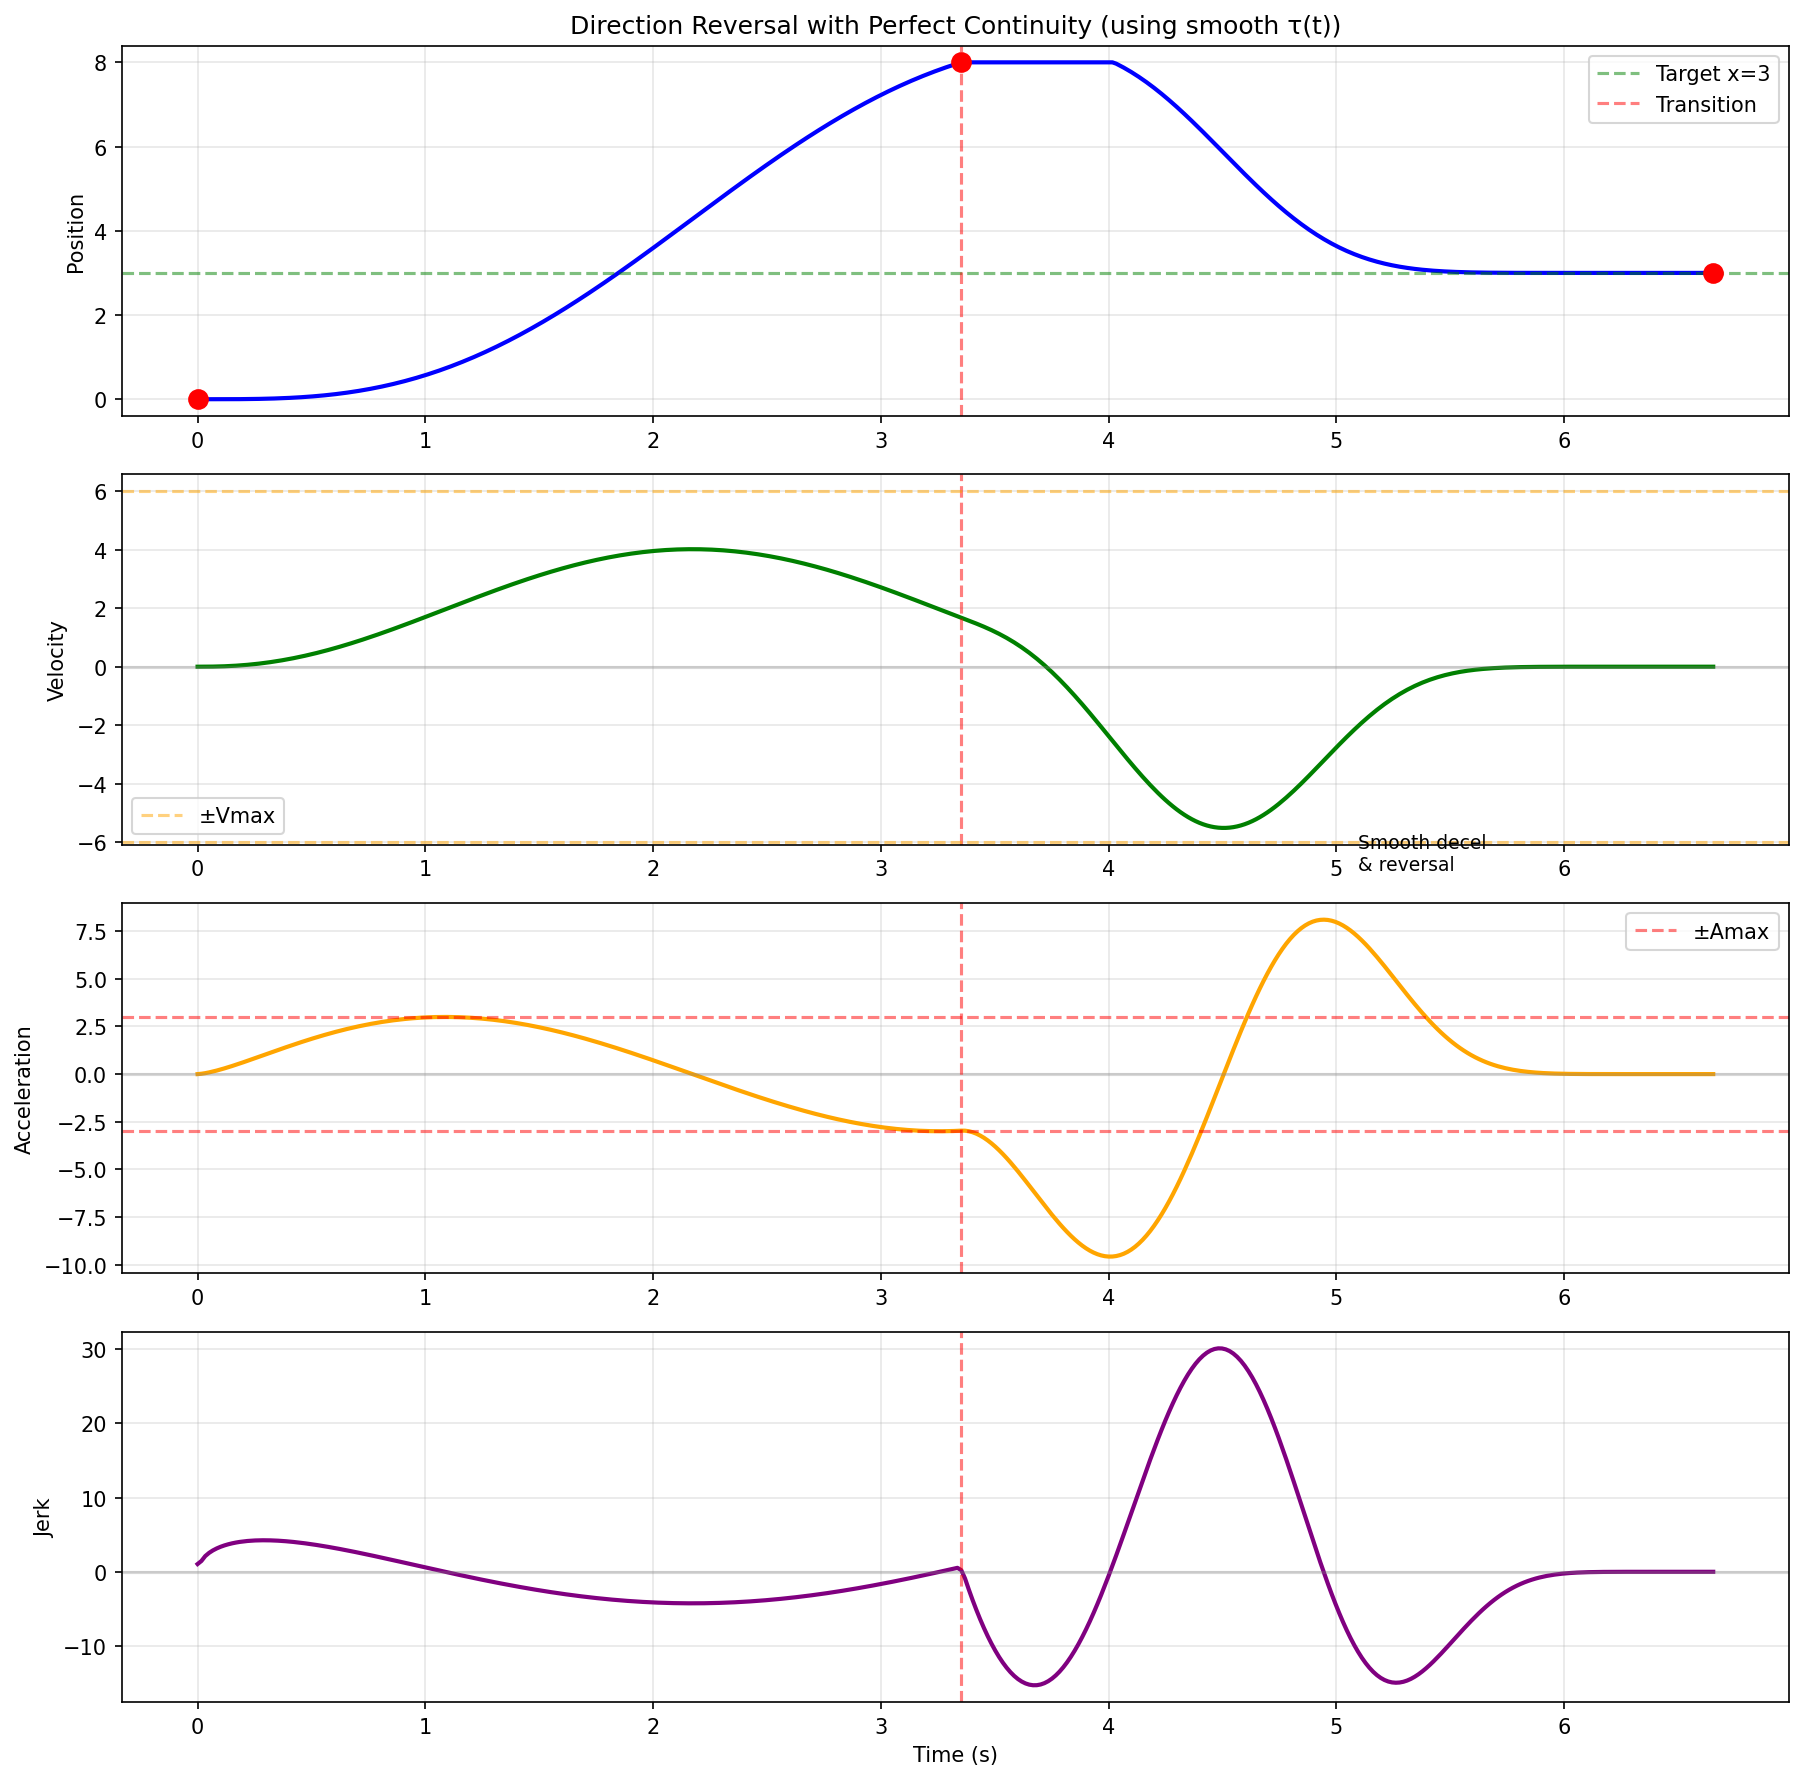
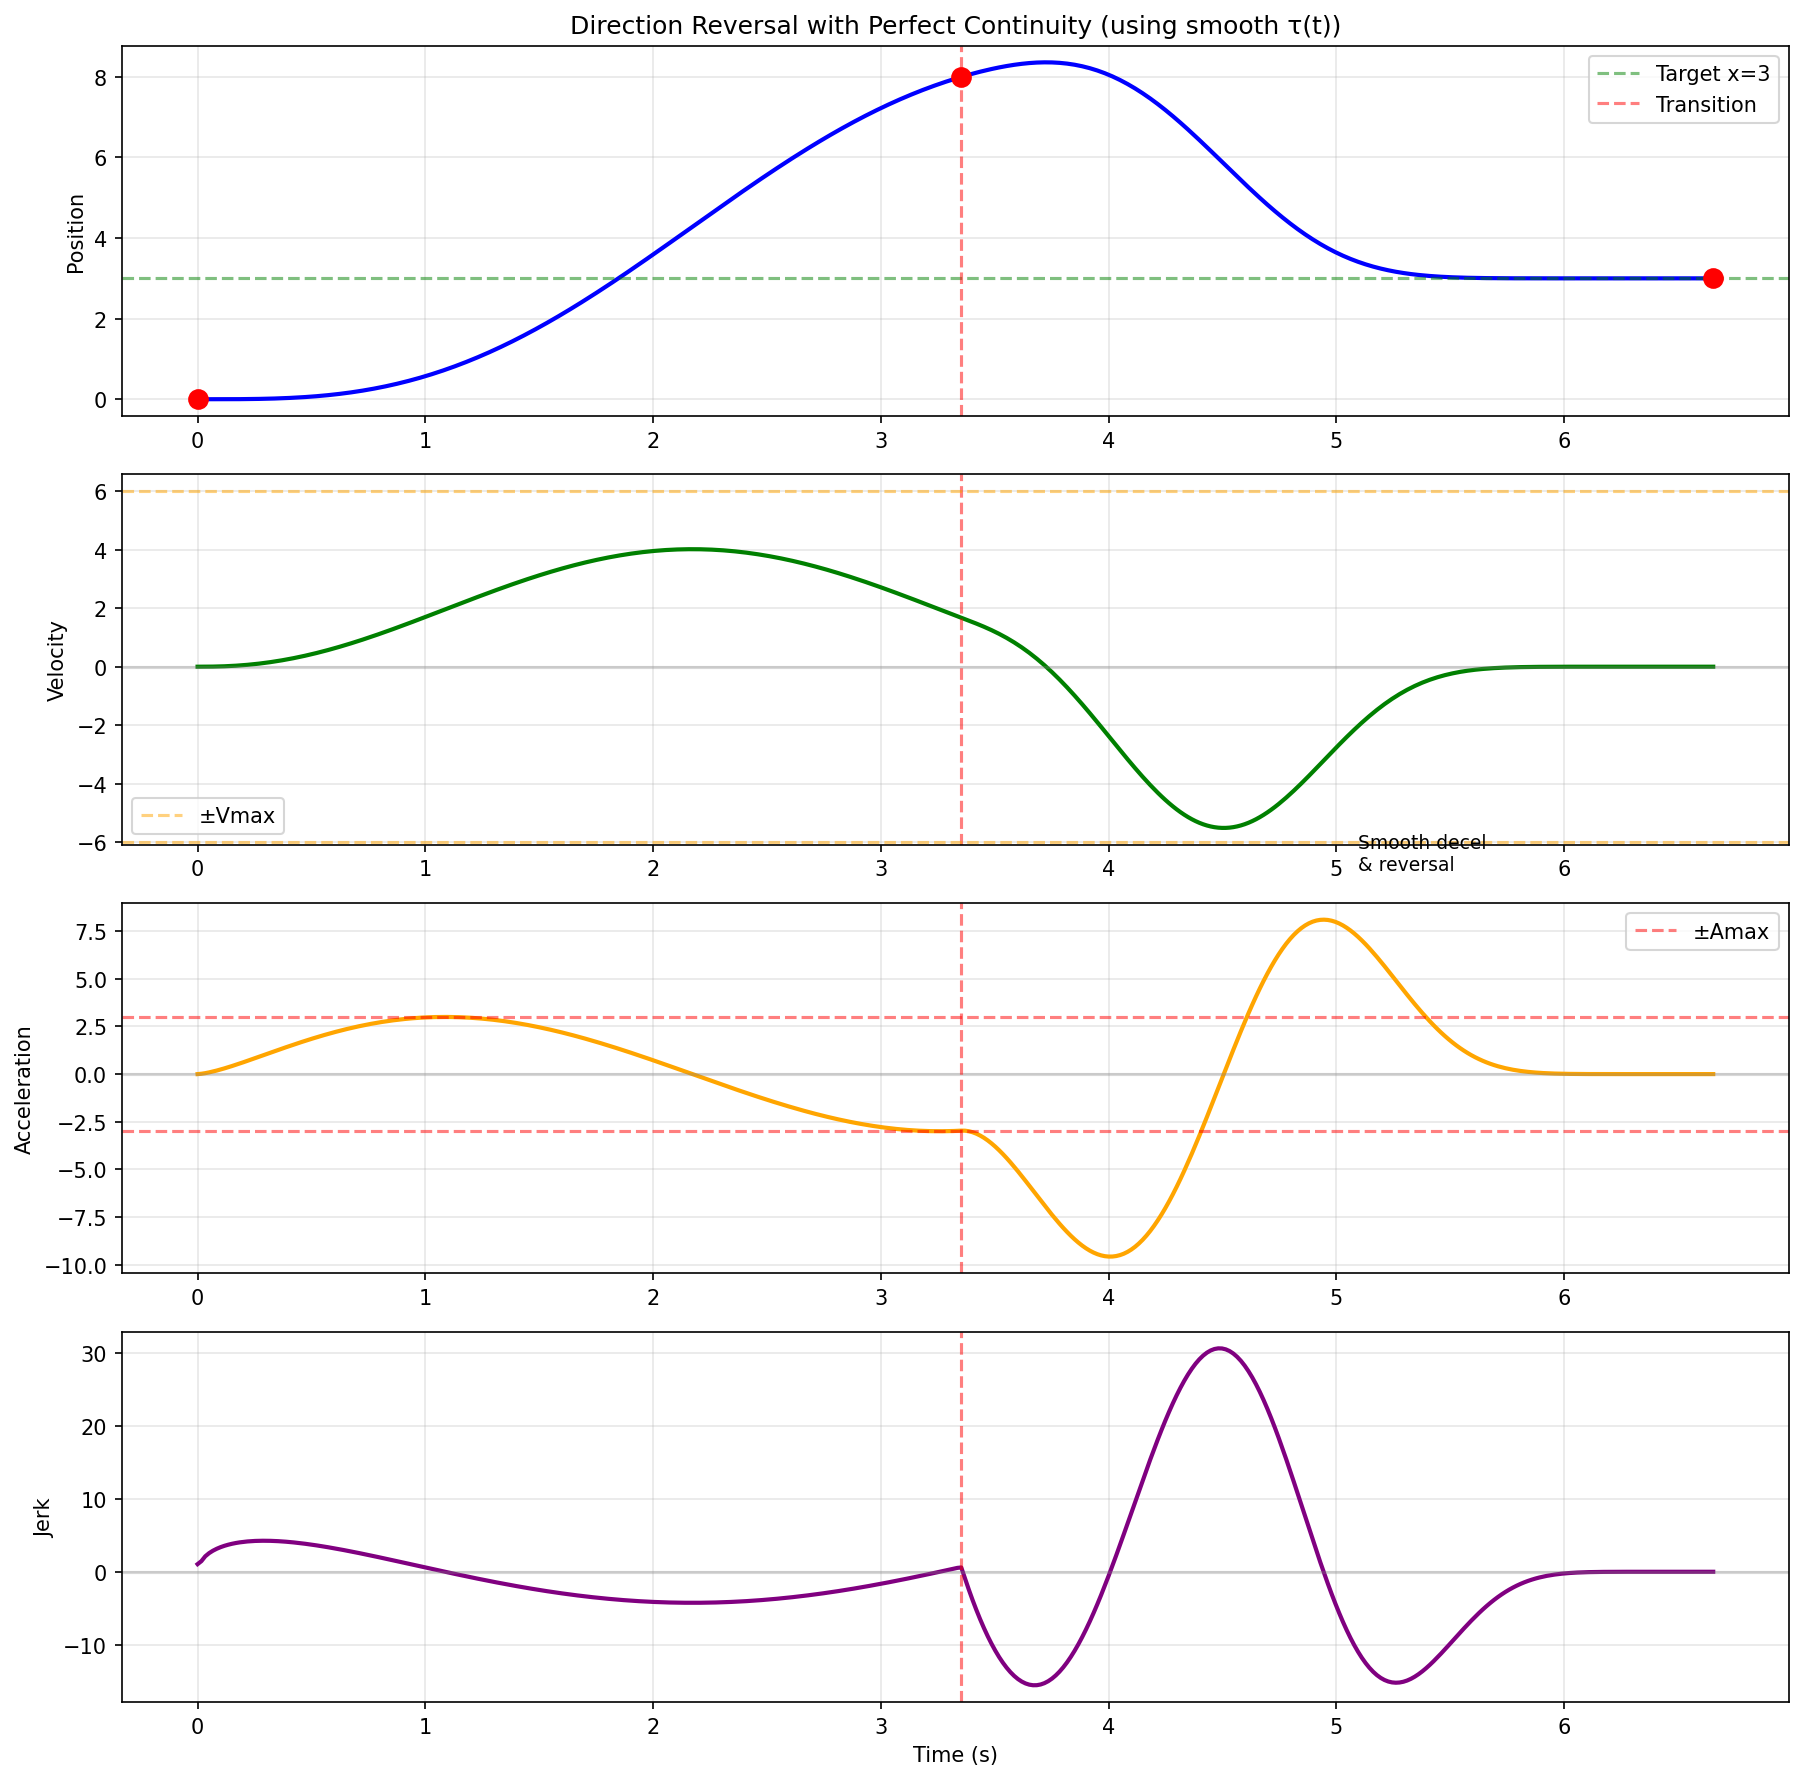
Fix direction reversal and improve jerk visualization
- Remove τ clipping to [tau_start, tau_end] that blocked overshoot behavior
- Now clips τ to [-1, 1] (valid S-curve range) allowing proper direction reversal
- Direction reversal now correctly overshoots before returning to target
- Use analytical jerk from SmoothMotion for cleaner visualization (avoids
  numerical gradient artifacts at junction)

diff --git a/generate_plots.py b/generate_plots.py
@@ -335,6 +335,8 @@ def plot_motion_continuation():
 
     t2 = np.linspace(0, T2, 301)
     pos2, vel2, acc2 = evaluate_smooth_motion(plan2, t2)
+    # Use analytical jerk from smooth motion
+    jerk2 = plan2['smooth_motion'].jerk(t2)
 
     print(f"\nMotion 2 (smooth continuation): {plan2['x0']:.2f} -> {plan2['x1']:.2f}")
     print(f"  Duration: {T2:.3f}s")
@@ -354,9 +356,10 @@ def plot_motion_continuation():
     vel_combined = np.concatenate([vel1, vel2[1:]])
     acc_combined = np.concatenate([acc1, acc2[1:]])
 
-    # Compute jerk for visualization
-    dt = t_combined[1] - t_combined[0]
-    jerk_combined = np.gradient(acc_combined, dt)
+    # Compute jerk: numerical for motion 1, analytical for motion 2
+    dt1 = t1[1] - t1[0]
+    jerk1 = np.gradient(acc1, dt1)
+    jerk_combined = np.concatenate([jerk1, jerk2[1:]])
 
     # Plot position
     axs[0].plot(t_combined, pos_combined, 'b-', linewidth=2)
@@ -445,6 +448,7 @@ def plot_direction_reversal():
 
     pos1, vel1, acc1 = evaluate_motion(plan1, t1)
     pos2, vel2, acc2 = evaluate_smooth_motion(plan2, t2)
+    jerk2 = plan2['smooth_motion'].jerk(t2)
 
     # Combined
     t_combined = np.concatenate([t1, T1 + t2[1:]])
@@ -452,8 +456,10 @@ def plot_direction_reversal():
     vel_combined = np.concatenate([vel1, vel2[1:]])
     acc_combined = np.concatenate([acc1, acc2[1:]])
 
-    dt = t_combined[1] - t_combined[0]
-    jerk_combined = np.gradient(acc_combined, dt)
+    # Jerk: numerical for motion 1, analytical for motion 2
+    dt1 = t1[1] - t1[0]
+    jerk1 = np.gradient(acc1, dt1)
+    jerk_combined = np.concatenate([jerk1, jerk2[1:]])
 
     # Plot position
     axs[0].plot(t_combined, pos_combined, 'b-', linewidth=2)

diff --git a/src/scurvebeta/generalized.py b/src/scurvebeta/generalized.py
@@ -516,7 +516,9 @@ class SmoothMotion:
             return float(result[0]) if scalar else result
 
         tau, _, _, _ = _eval_tau_poly(np.clip(t, 0, self.T), self.coeffs)
-        tau = np.clip(tau, min(self.tau_start, self.tau_end), max(self.tau_start, self.tau_end))
+        # Allow τ to go outside [tau_start, tau_end] for overshoot during direction reversal
+        # Only clip to the valid S-curve range [-1, 1]
+        tau = np.clip(tau, -1, 1)
 
         f_vals = normalized_f(tau)
         f_start = normalized_f(self.tau_start)
